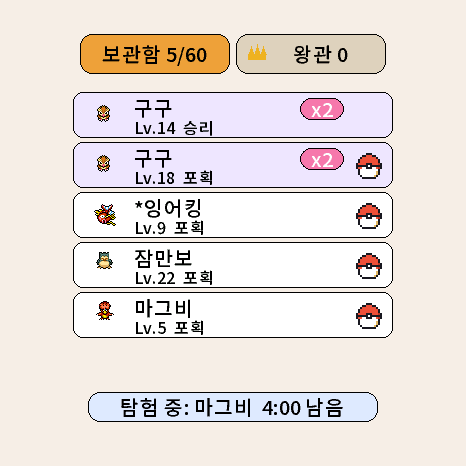
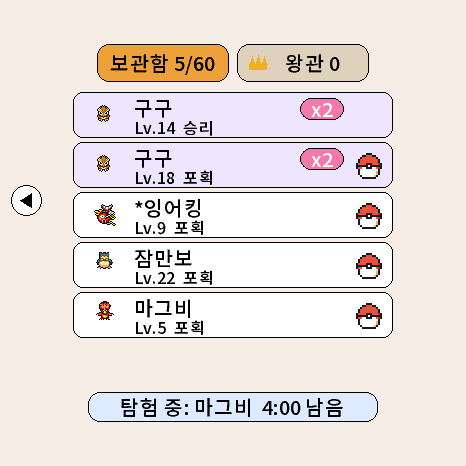
claude-version: ko11.8 wip - box: left back arrow, tabs moved inside the round screen
Claude-Session: https://claude.ai/code/session_01CiwvMdFH9wtdhm1XA9VgMB

Changed region(s): [[0.1502, 0.0601, 0.8412, 0.1803], [0.0, 0.3906, 0.0901, 0.4807]]

diff --git a/claude-version/확인_대기.md b/claude-version/확인_대기.md
@@ -31,6 +31,7 @@
 - **따라오기 팝업**: 야생 승리 20% "○○가 따라오고 싶어 해요! 데려갈까요?" [데려가기]/[보내주기]
   (예전: 자동으로 보관함). 이미 있는 포켓몬이면 데려가기 → 보관함/사탕 선택. 20초 안 고르면 데려가기(예전처럼)
 - **전투 중 똥 안 쌈**: 야생·체육관·리그·오늘의 도전·통신 대전 화면에 있는 동안은 똥이 안 생김
+- **보관함 화면**: 왼쪽 ◀ = 나가기 (상세 화면에서는 목록으로). 보관함·왕관 탭을 조금 내리고 폭을 줄여 둥근 화면 안으로 (y34→44, 폭 150→132). 목록 5마리 그대로
 - 정리할 것: 훈련 결과 화면의 측정 표시(그리기/멈춤) — 렉이 다시 안 생기면 뺄 예정
 
 ## 보류 계획: 통신 선물 (사용자가 두 번째 다마포케를 만들면 그때 작업)
